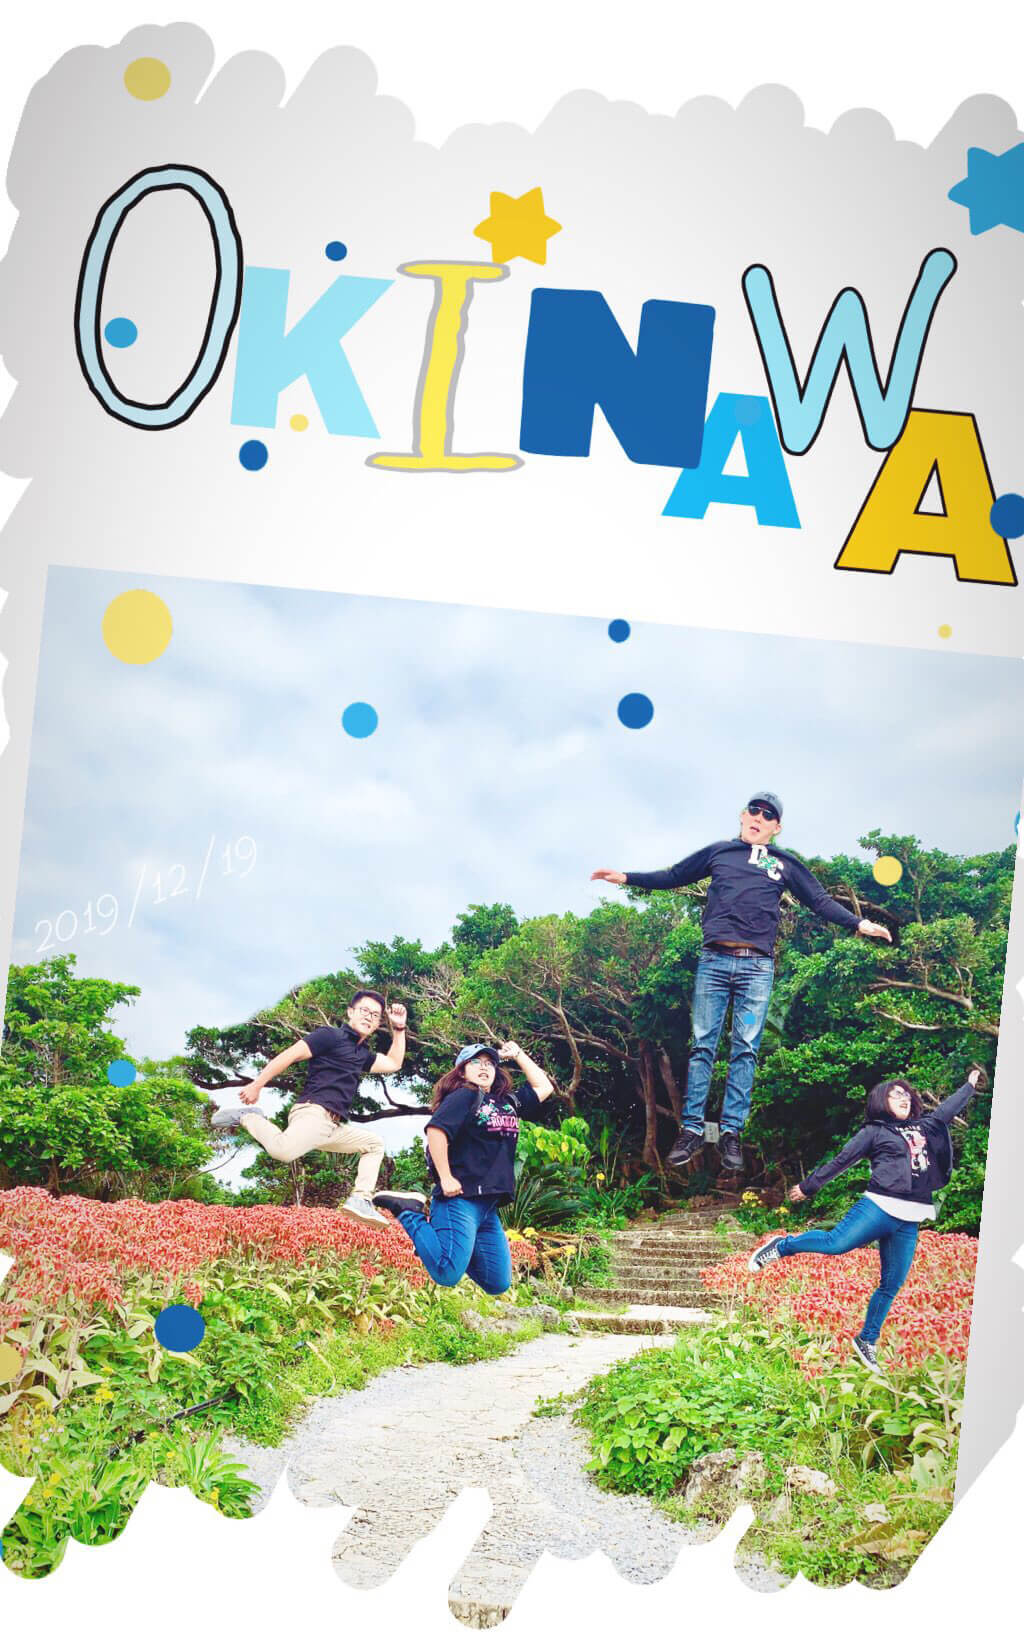
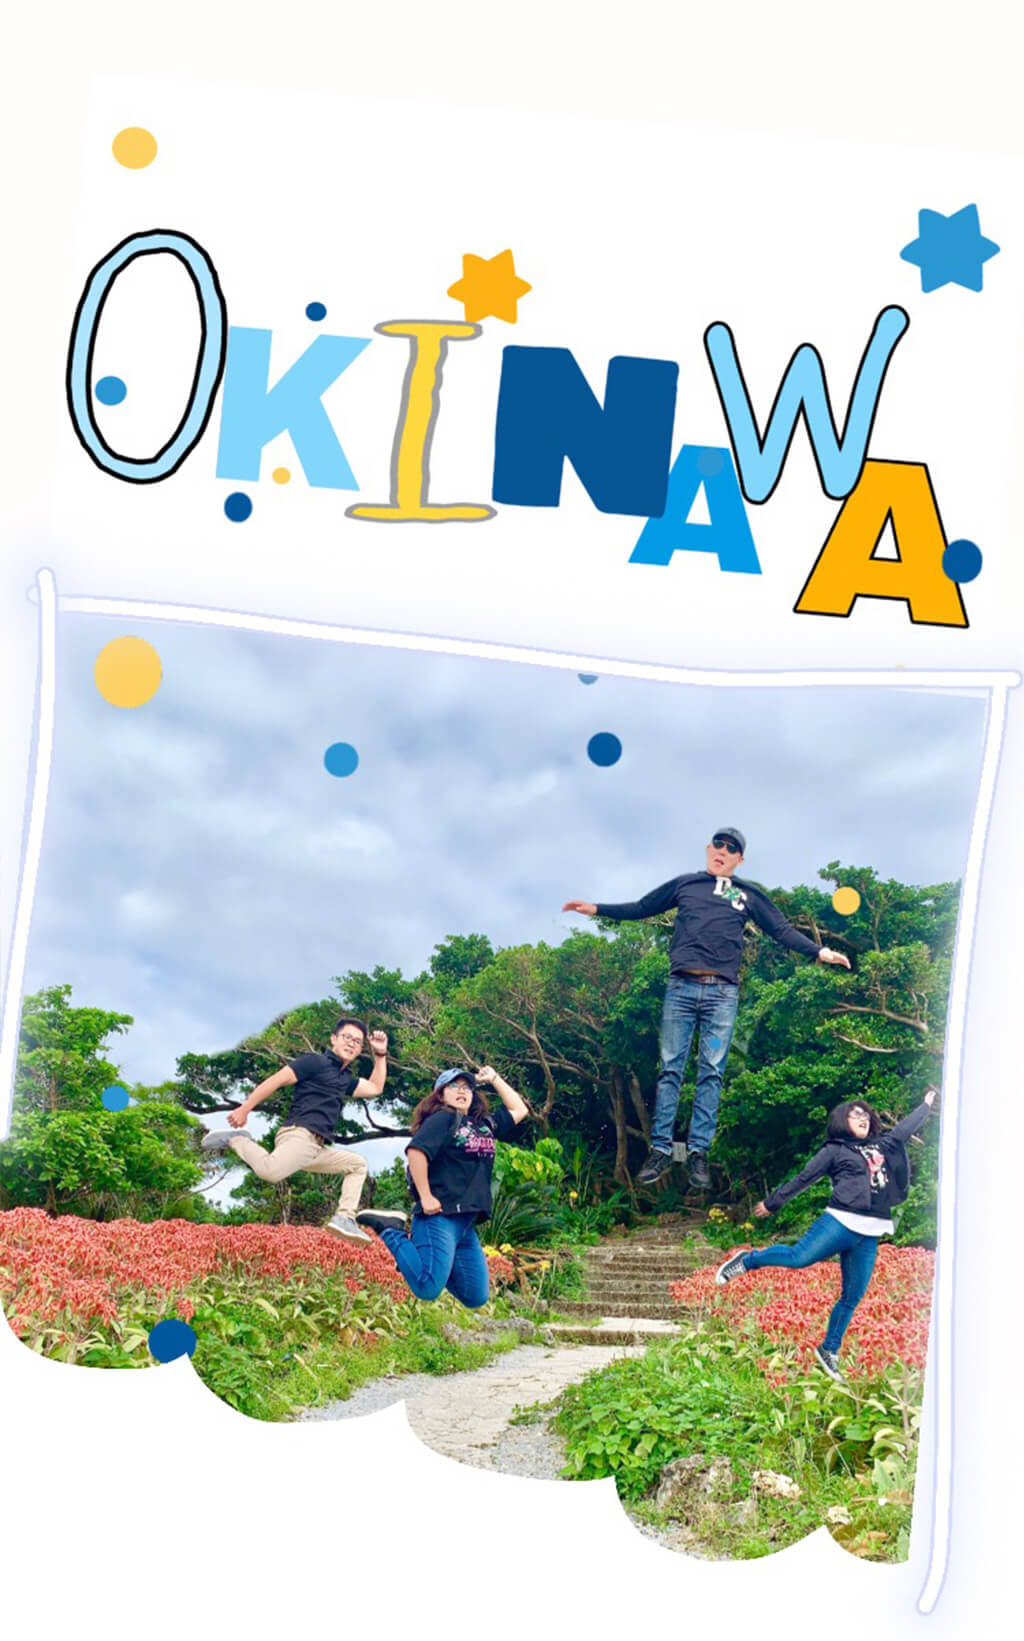
update bootstrap手機文字放大+修圖okinawa2

diff --git a/protfolio/index.html b/protfolio/index.html
@@ -60,7 +60,6 @@
     <li><a class="sidenav-close grey-text text-darken-3 waves-effect" href="#photoshop">Photoshop</a></li>
     <li><a class="sidenav-close grey-text text-darken-3 waves-effect" href="#illustrator">Illustrator</a></li>
     <li><a class="sidenav-close grey-text text-darken-3 waves-effect" href="#decoration">Decoration</a></li>
-    <li><a class="sidenav-close grey-text text-darken-3 waves-effect" href="#travel">Travel</a></li>
     <li>
       <div class="divider"></div>
     </li>
@@ -104,29 +103,38 @@
 
     <div class="z-depth-3 pc S-ROW">
       <div class="row">
-        <div class="col s12">
+        <div class="col s12 hide-on-med-and-down">
           <img alt="" src="img/front-end/pc.JPG" class="responsive-img">
         </div>
+        <div class="col s12 hide-on-large-only">
+          <img alt="" src="img/front-end/pc-min.JPG" class="responsive-img">
+        </div>
       </div>
     </div>
 
-    <div class="z-depth-3">
+    <div class="z-depth-3 other S-ROW">
       <div class="row">
-        <div class="col s12">
+        <div class="col s12 hide-on-med-and-down">
           <img alt="" src="img/front-end/tablet.JPG" class="responsive-img">
         </div>
-      </div>
-    </div>
-
-    <div class="z-depth-3">
-      <div class="row">
-        <div class="col s12">
-          <img alt="" src="img/front-end/phone.JPG" class="responsive-img">
+        <div class="col s12 hide-on-large-only">
+          <img alt="" src="img/front-end/tablet-min.JPG" class="responsive-img">
         </div>
       </div>
     </div>
 
-    <div class="z-depth-3 pack S-ROW">
+    <div class="z-depth-3 other S-ROW">
+      <div class="row">
+        <div class="col s12 hide-on-med-and-down">
+          <img alt="" src="img/front-end/phone.JPG" class="responsive-img">
+        </div>
+        <div class="col s12 hide-on-large-only">
+          <img alt="" src="img/front-end/phone-min.JPG" class="responsive-img">
+        </div>
+      </div>
+    </div>
+
+    <div class="z-depth-3 other S-ROW">
       <div class="row">
         <div class="col s12">
           <img alt="" src="img/front-end/package.jpg" class="responsive-img">
@@ -350,20 +358,9 @@
 
 
 
-
-
-
-  <!-- //////travel//////// -->
-  <section id="travel" class="scrollspy">
-    <h3 class="section_name center">Travel</h3>
-
-  </section>
-
-
-
   <!--Footer-->
   <footer class="page-footer grey lighten-1">
-    <div class="container">
+    <!-- <div class="container">
       <div class="row">
         <div class="col s12">
           <div id="footer-logo">
@@ -377,7 +374,7 @@
           </div>
         </div>
       </div>
-    </div>
+    </div> -->
     <div class="footer-copyright center">
       <div class="container">
         Kusti's Portfolio © 2020 Copyright

diff --git a/protfolio/css/index.css b/protfolio/css/index.css
@@ -262,12 +262,12 @@ ul.sidenav .subheader {
   }
 }
 
-#front-end .z-depth-3.pack {
+#front-end .z-depth-3.other {
   margin: 0 auto 150px auto;
 }
 
 @media (max-width: 576px) {
-  #front-end .z-depth-3.pack {
+  #front-end .z-depth-3.other {
     margin: 0 auto 100px auto;
   }
 }

diff --git a/protfolio/css/index.scss b/protfolio/css/index.scss
@@ -237,7 +237,7 @@ ul.sidenav .subheader {
             padding: 20px 0 1px 0;
         }
     }
-    &.pack{
+    &.other{
         margin: 0 auto 150px auto;
         @media (max-width:576px) {
             margin: 0 auto 100px auto;
